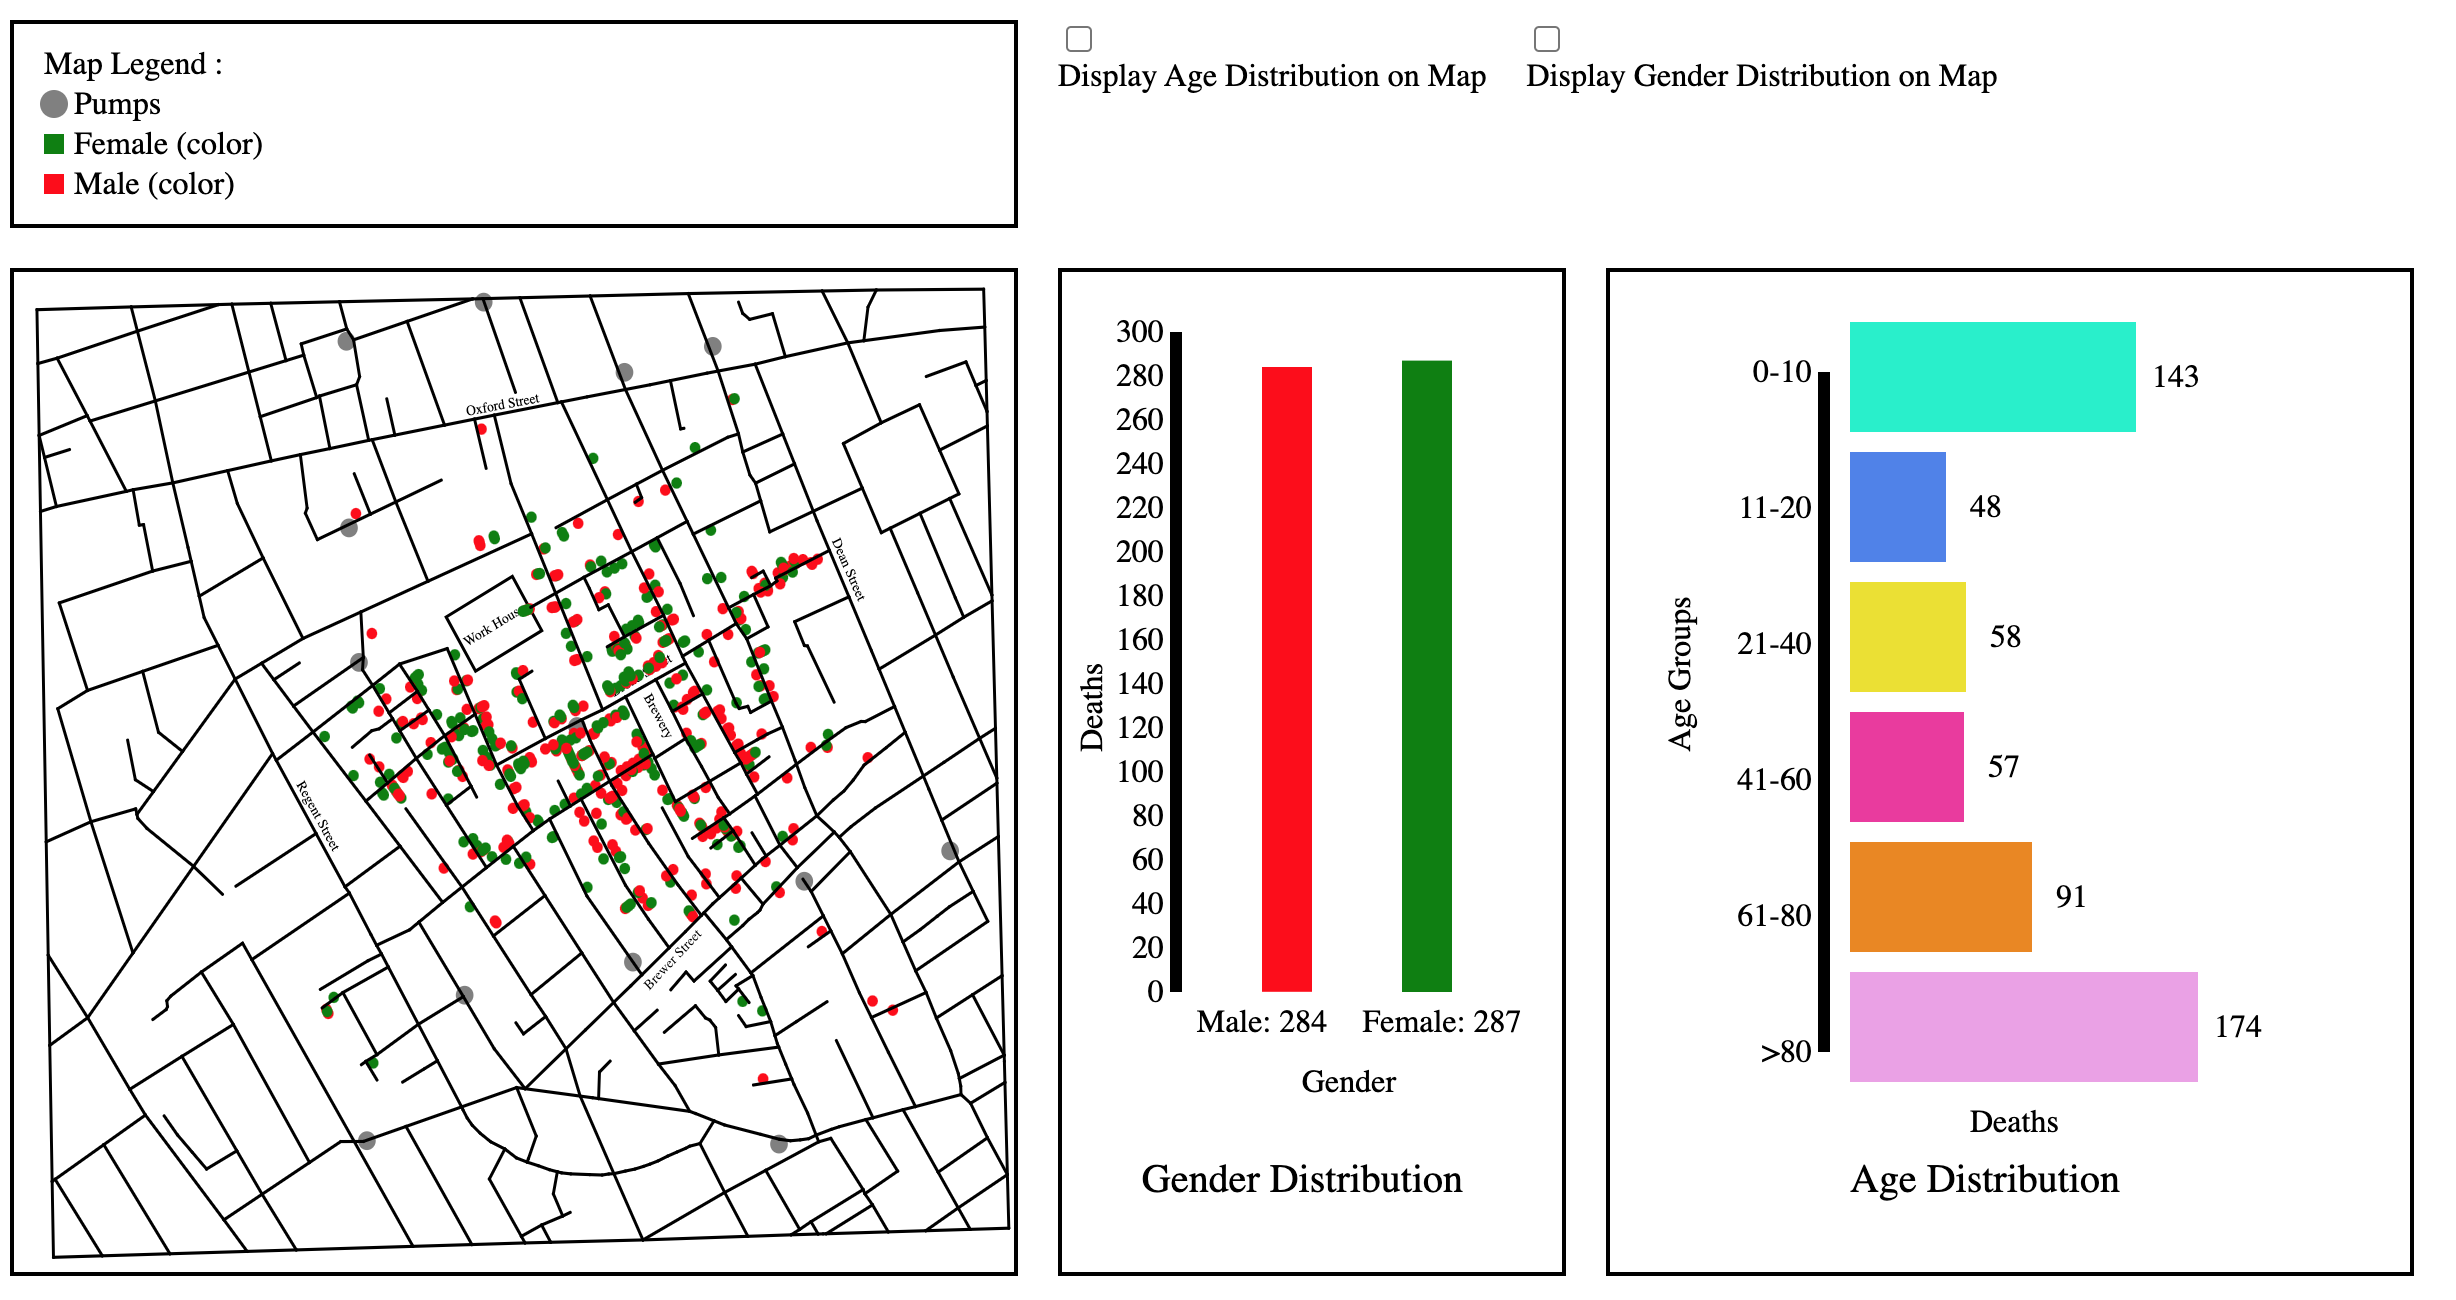
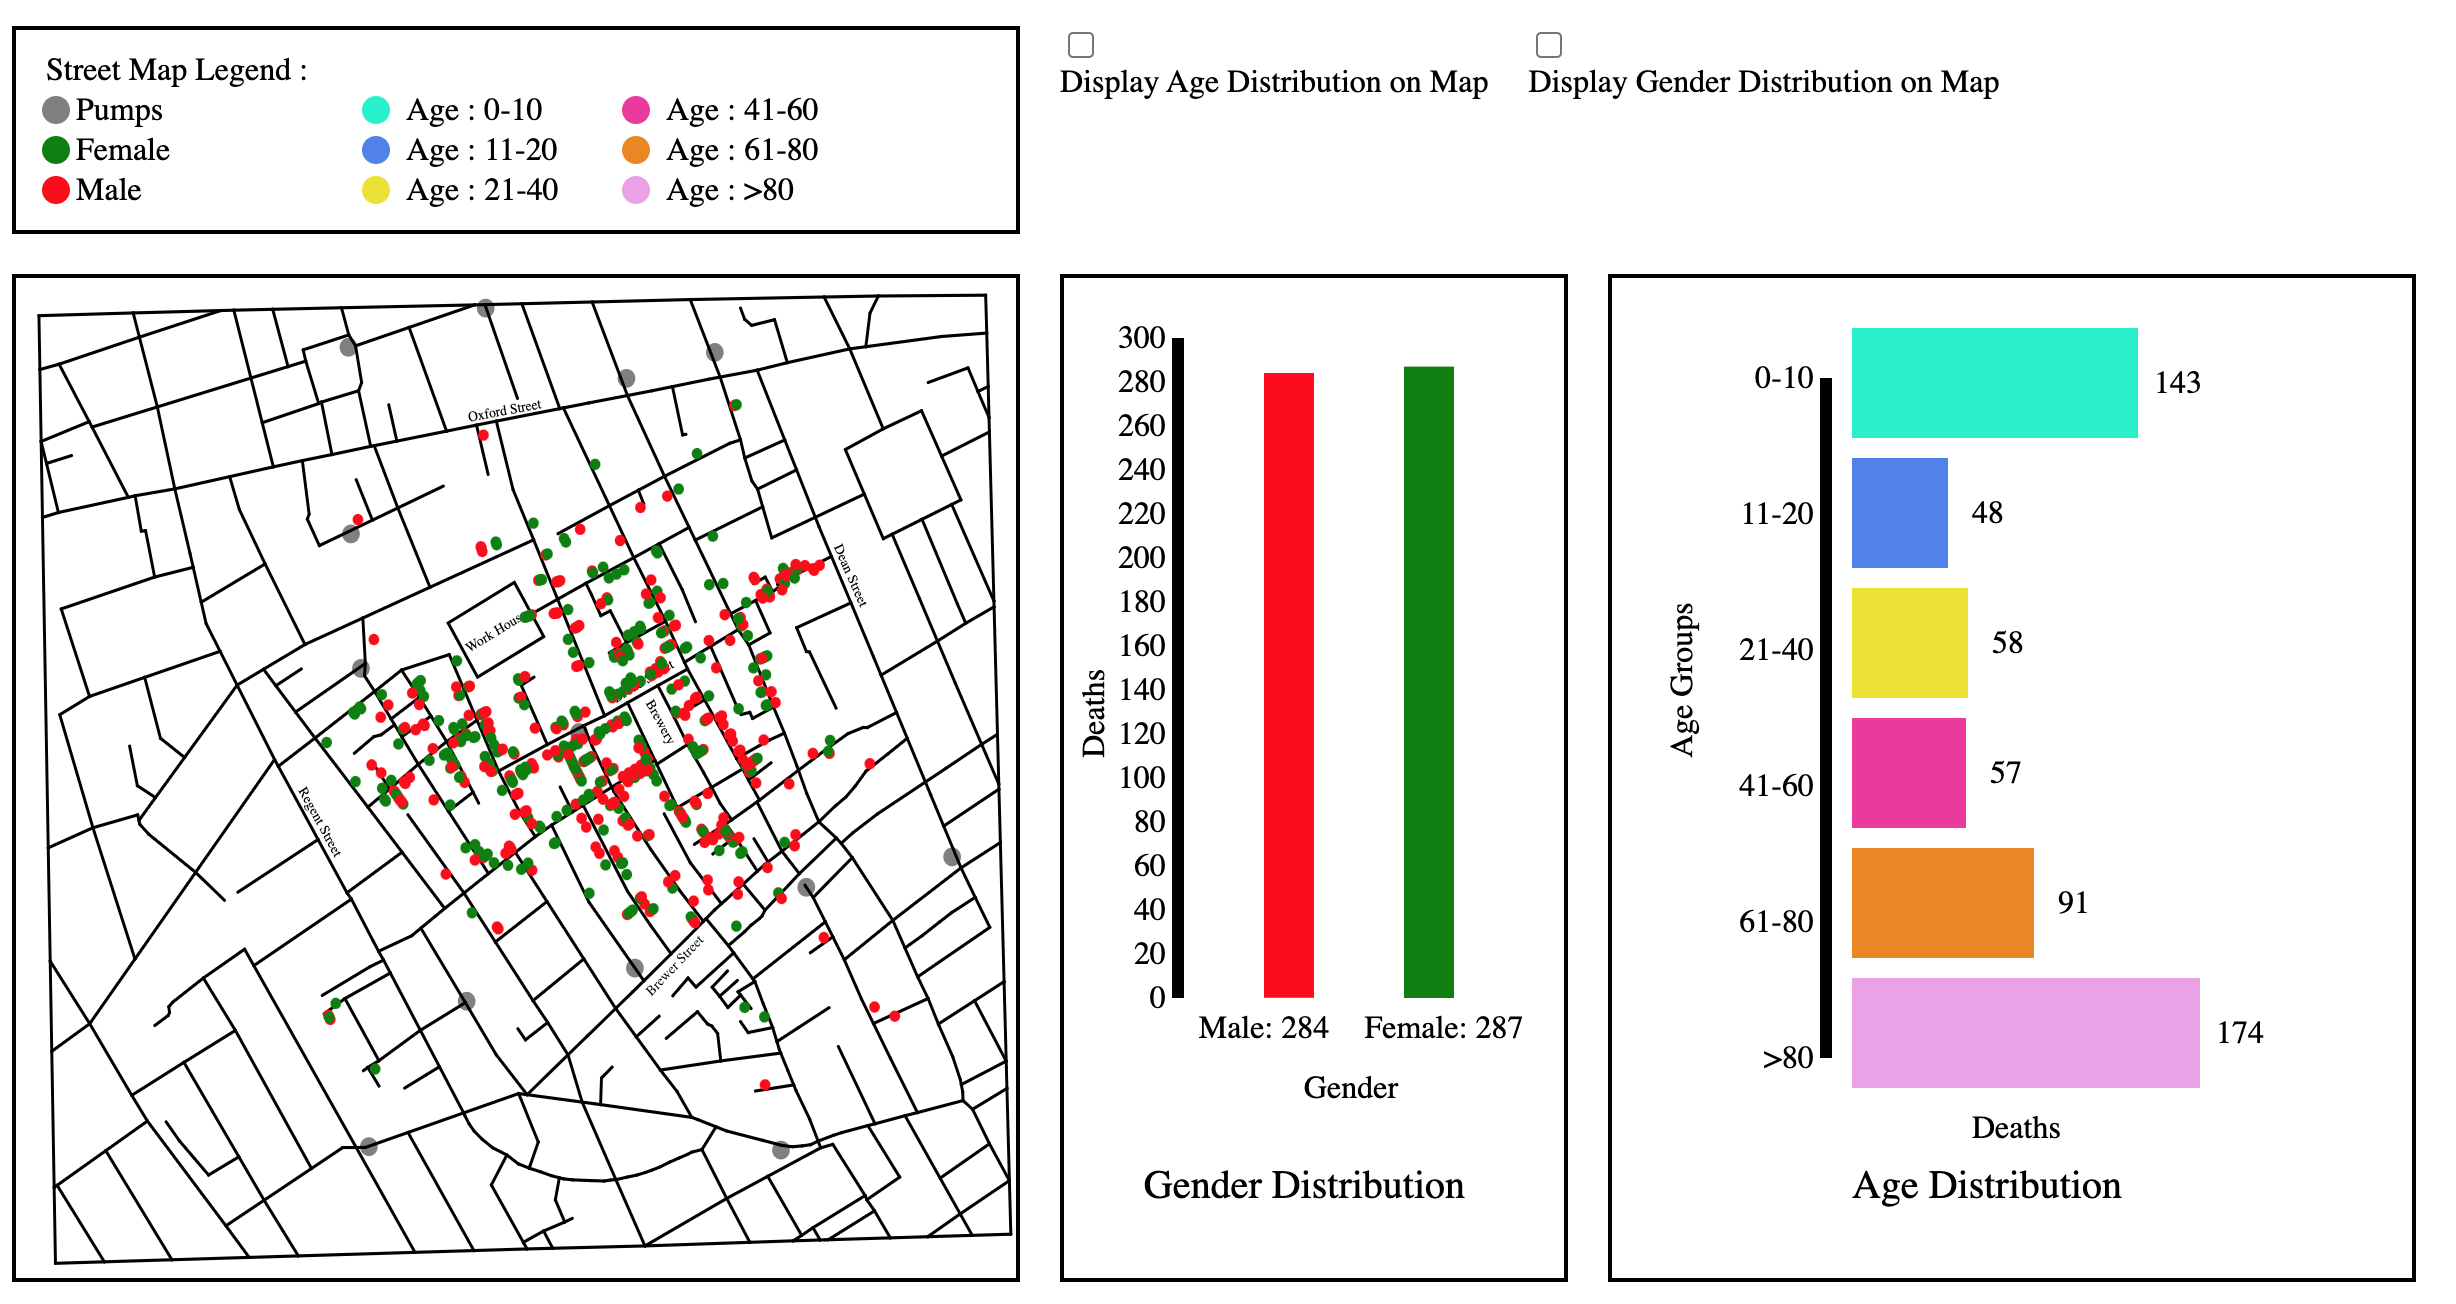
legend

diff --git a/project/index.html b/project/index.html
@@ -316,7 +316,7 @@
             map_legend.append("text")
             .attr("y", 25)
             .attr("x", 15)
-            .text("Map Legend : ")
+            .text("Street Map Legend : ")
 
             map_legend.append('circle')
             .style("fill", 'grey')
@@ -329,29 +329,94 @@
             .attr("x", 30)
             .text("Pumps")
 
-            map_legend.append('rect')
+            map_legend.append('circle')
             .style("fill", 'green')
-            .attr("x", 15)
-            .attr("y", 55)
-            .attr("height", 10)
-            .attr("width", 10)
+            .attr("cx", 20)
+            .attr("cy", 60)
+            .attr("r", 7)
+            
 
             map_legend.append("text")
             .attr("y", 65)
             .attr("x", 30)
-            .text("Female (color)")
+            .text("Female")
 
-            map_legend.append('rect')
+            map_legend.append('circle')
             .style("fill", 'red')
-            .attr("x", 15)
-            .attr("y", 75)
-            .attr("height", 10)
-            .attr("width", 10)
-
+            .attr("cx", 20)
+            .attr("cy", 80)
+            .attr("r", 7)
+            
             map_legend.append("text")
             .attr("y", 85)
             .attr("x", 30)
-            .text("Male (color)")
+            .text("Male")
+
+            map_legend.append('circle')
+            .style("fill", ageColor[0])
+            .attr("cx", 180)
+            .attr("cy", 40)
+            .attr("r", 7)
+
+            map_legend.append("text")
+            .attr("y", 45)
+            .attr("x", 195)
+            .text("Age : 0-10")
+
+            map_legend.append('circle')
+            .style("fill", ageColor[1])
+            .attr("cx", 180)
+            .attr("cy", 60)
+            .attr("r", 7)
+
+            map_legend.append("text")
+            .attr("y", 65)
+            .attr("x", 195)
+            .text("Age : 11-20")
+
+            map_legend.append('circle')
+            .style("fill", ageColor[2])
+            .attr("cx", 180)
+            .attr("cy", 80)
+            .attr("r", 7)
+
+            map_legend.append("text")
+            .attr("y", 85)
+            .attr("x", 195)
+            .text("Age : 21-40")
+
+            map_legend.append('circle')
+            .style("fill", ageColor[3])
+            .attr("cx", 310)
+            .attr("cy", 40)
+            .attr("r", 7)
+
+            map_legend.append("text")
+            .attr("y", 45)
+            .attr("x", 325)
+            .text("Age : 41-60")
+
+            map_legend.append('circle')
+            .style("fill", ageColor[4])
+            .attr("cx", 310)
+            .attr("cy", 60)
+            .attr("r", 7)
+
+            map_legend.append("text")
+            .attr("y", 65)
+            .attr("x", 325)
+            .text("Age : 61-80")
+
+            map_legend.append('circle')
+            .style("fill", ageColor[5])
+            .attr("cx", 310)
+            .attr("cy", 80)
+            .attr("r", 7)
+
+            map_legend.append("text")
+            .attr("y", 85)
+            .attr("x", 325)
+            .text("Age : >80")
     }
     var died = 0;
 
